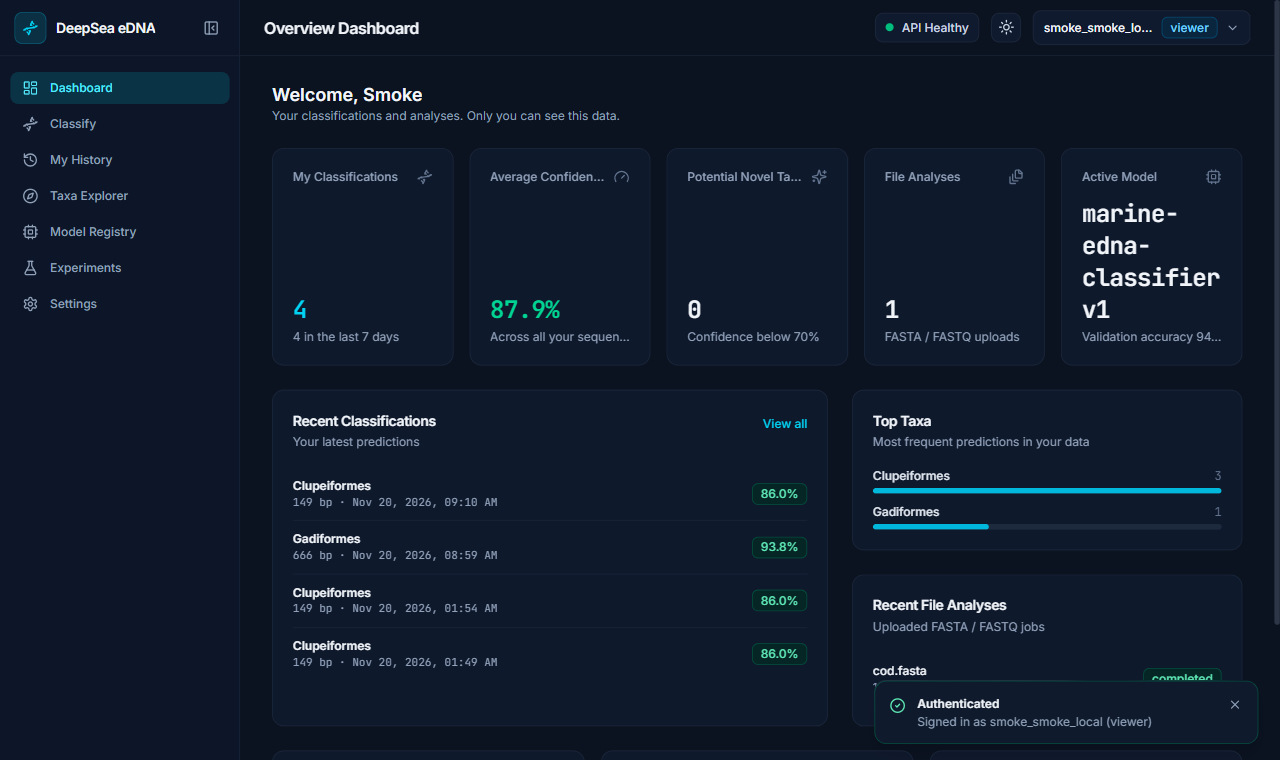
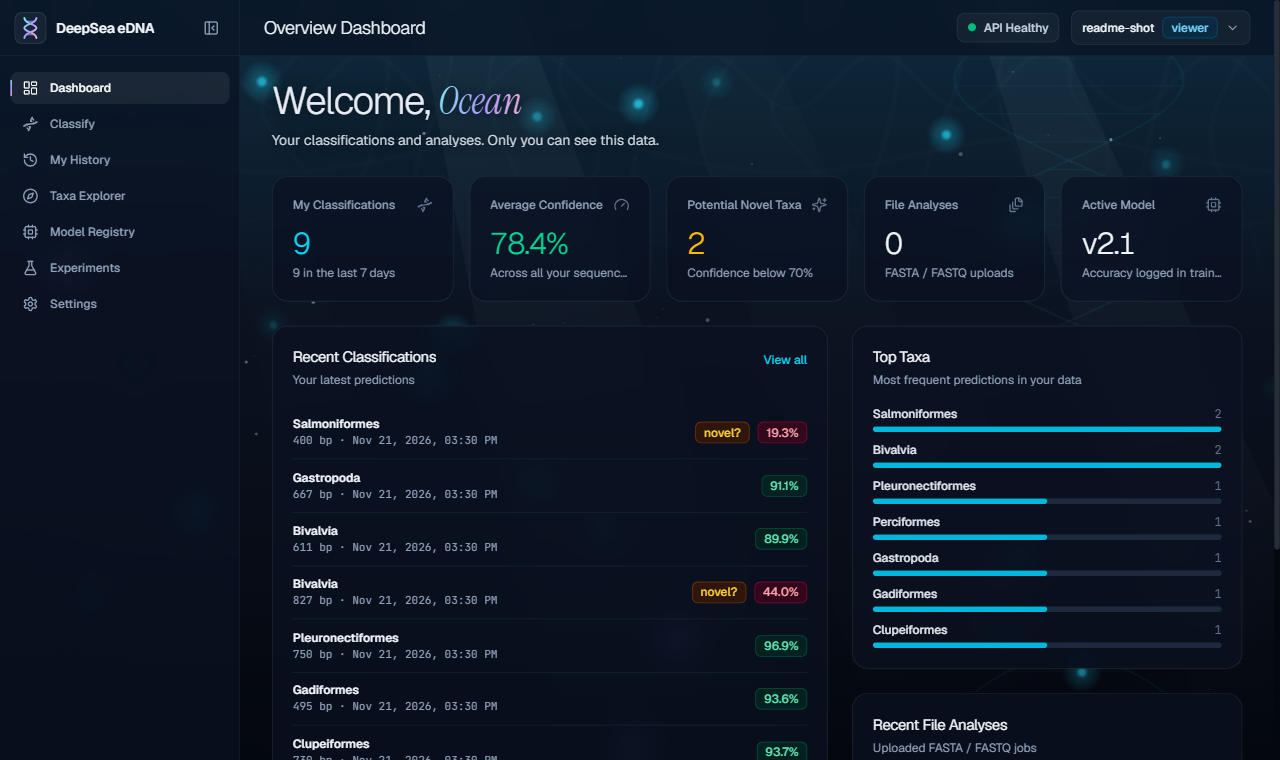
docs(readme): cinematic redesign, live deep-sea background, new screenshots
- New "Look and feel" section: 3D homepage, live ocean background, reactions to
  classifications / novel taxa / API health, glass UI, performance, reduced motion
  (gentle motion) and where the tunables live
- Fresh homepage, dashboard and Taxa Explorer screenshots of the redesigned UI
- Page table: homepage row, provider-only sign-in buttons, 90 % / 95 % resource
  warnings, 3D helix and constellation, dev-only backend-URL setting
- Fourth workflow (model quality monitoring), 24 Vitest tests and how to run them,
  new backend test suites, updated project structure and tech stack
- No-SSH AWS update command; troubleshooting for local CORS, reduced motion and
  resource warnings; roadmap updates

diff --git a/README.md b/README.md
@@ -3,7 +3,7 @@
 <img src="https://capsule-render.vercel.app/api?type=waving&color=0:06101F,45:0E7490,100:22D3EE&height=210&section=header&text=DeepSea%20eDNA%20AI&fontSize=52&fontColor=ffffff&fontAlignY=36&desc=Marine%20biodiversity%20from%20environmental%20DNA%20%E2%80%A2%20end-to-end%20MLOps&descAlignY=58&descSize=17&animation=fadeIn" width="100%" alt="DeepSea eDNA AI"/>
 
 <a href="https://app.16-179-237-170.sslip.io">
-  <img src="https://readme-typing-svg.demolab.com?font=Fira+Code&weight=600&size=20&duration=2800&pause=700&color=22D3EE&center=true&vCenter=true&width=760&lines=%F0%9F%A7%AC+DNA+sequence+in+%E2%86%92+marine+taxon+out;%F0%9F%A7%A0+CNN+%2B+self-attention+%E2%80%A2+95.0%25+held-out+accuracy;%F0%9F%93%A6+MLflow+registry+%E2%80%A2+models%3A%2F%2Fmarine-edna-classifier%40champion;%F0%9F%90%B3+Docker+%E2%80%A2+GitHub+Actions+%E2%80%A2+AWS+EC2+%2B+HTTPS" alt="Typing intro"/>
+  <img src="https://readme-typing-svg.demolab.com?font=Fira+Code&weight=600&size=20&duration=2800&pause=700&color=22D3EE&center=true&vCenter=true&width=760&lines=%F0%9F%A7%AC+DNA+sequence+in+%E2%86%92+marine+taxon+out;%F0%9F%A7%A0+CNN+%2B+self-attention+%E2%80%A2+95.0%25+held-out+accuracy;%F0%9F%93%A6+MLflow+registry+%E2%80%A2+models%3A%2F%2Fmarine-edna-classifier%40champion;%F0%9F%90%B3+Docker+%E2%80%A2+GitHub+Actions+%E2%80%A2+AWS+EC2+%2B+HTTPS;%F0%9F%8C%8A+Cinematic+3D+UI+over+a+live+deep-sea+background" alt="Typing intro"/>
 </a>
 
 <p>
@@ -16,7 +16,8 @@
   <img src="https://img.shields.io/badge/Accuracy-95.0%25-10B981?style=flat-square" alt="Accuracy"/>
   <img src="https://img.shields.io/badge/Training_data-48%2C000_sequences-0EA5E9?style=flat-square" alt="Data"/>
   <img src="https://img.shields.io/badge/Taxa-8-6366F1?style=flat-square" alt="Taxa"/>
-  <img src="https://img.shields.io/badge/Tests-56_passing-22C55E?style=flat-square&logo=pytest&logoColor=white" alt="Tests"/>
+  <img src="https://img.shields.io/badge/Tests-56_passing-22C55E?style=flat-square&logo=pytest&logoColor=white" alt="Backend tests"/>
+  <img src="https://img.shields.io/badge/Frontend_tests-24_passing-22C55E?style=flat-square&logo=vitest&logoColor=white" alt="Frontend tests"/>
   <a href="LICENSE"><img src="https://img.shields.io/badge/License-MIT-F59E0B?style=flat-square" alt="License"/></a>
 </p>
 
@@ -29,6 +30,8 @@
   <img src="https://img.shields.io/badge/Redis-7-DC382D?style=flat-square&logo=redis&logoColor=white" alt="Redis"/>
   <img src="https://img.shields.io/badge/React-19-61DAFB?style=flat-square&logo=react&logoColor=black" alt="React"/>
   <img src="https://img.shields.io/badge/TypeScript-5-3178C6?style=flat-square&logo=typescript&logoColor=white" alt="TypeScript"/>
+  <img src="https://img.shields.io/badge/Three.js-r170-000000?style=flat-square&logo=threedotjs&logoColor=white" alt="Three.js"/>
+  <img src="https://img.shields.io/badge/GSAP-3-88CE02?style=flat-square&logo=greensock&logoColor=black" alt="GSAP"/>
   <img src="https://img.shields.io/badge/Docker-Compose-2496ED?style=flat-square&logo=docker&logoColor=white" alt="Docker"/>
   <img src="https://img.shields.io/badge/AWS-EC2_%2B_CloudFormation-FF9900?style=flat-square&logo=amazonwebservices&logoColor=white" alt="AWS"/>
 </p>
@@ -42,6 +45,7 @@
 [🔄 CI/CD](#-cicd-pipelines) •
 [☁ AWS](#%EF%B8%8F-deployment-on-aws) •
 [🚀 Quick start](#-quick-start) •
+[🎨 Look & feel](#-look-and-feel) •
 [📚 API](#-api-reference)
 
 </div>
@@ -52,9 +56,15 @@
 
 <div align="center">
 
+<img src="docs/assets/screenshot-landing.png" width="92%" alt="Cinematic homepage: a 3D glass DNA helix over the live deep-sea background"/>
+
+<sub>👆 The public homepage: a 3D glass DNA helix, smooth scrolling and scroll-driven reveals over a live deep-sea background</sub>
+
+<br/><br/>
+
 <img src="docs/assets/demo-tour.gif" width="92%" alt="Tour of the DeepSea eDNA AI web app: sign in, dashboard, classify, taxa explorer, model registry, history"/>
 
-<sub>👆 Sign in → personal dashboard → classify a sequence → explore taxa → MLflow-backed model registry → your history</sub>
+<sub>👆 Sign in → personal dashboard → classify a sequence → explore taxa → MLflow-backed model registry → your history<br/>(the GIFs were recorded before the cinematic redesign: same flows, older look)</sub>
 
 </div>
 
@@ -98,6 +108,7 @@
 - [♻ Retraining and the approval gate](#%EF%B8%8F-retraining-and-the-approval-gate)
 - [☁ Deployment on AWS](#%EF%B8%8F-deployment-on-aws)
 - [🖥 The web app, page by page](#%EF%B8%8F-the-web-app-page-by-page)
+- [🎨 Look and feel](#-look-and-feel)
 - [🔐 Security](#-security)
 - [🚀 Quick start](#-quick-start)
 - [📚 API reference](#-api-reference)
@@ -162,7 +173,7 @@ Every animal in the ocean sheds tiny traces of DNA (skin cells, mucus, waste) in
 ### 🚢 Engineering
 - **FastAPI** + PostgreSQL + Alembic migrations
 - **Docker compose** stack (6 services)
-- **56 pytest tests**, CI on SQLite **and** PostgreSQL
+- **56 pytest + 24 Vitest tests**, CI on SQLite **and** PostgreSQL
 - **GitHub Actions**: lint → test → E2E → publish to GHCR
 - **AWS EC2** via CloudFormation, auto-HTTPS with Caddy
 
@@ -172,7 +183,8 @@ Every animal in the ocean sheds tiny traces of DNA (skin cells, mucus, waste) in
 <td valign="top">
 
 ### 🖥 Web app
-- React 19 + TypeScript + Tailwind, light/dark
+- React 19 + TypeScript + Tailwind, cinematic dark theme
+- **Live deep-sea background**, 3D helix (Three.js), GSAP + Lenis motion
 - Single, batch and **file (FASTA/FASTQ)** analysis
 - Interactive **Taxa Explorer** built from real data
 - Personal history, exports (JSON/CSV/TSV/BIOM/FASTA)
@@ -496,7 +508,7 @@ sequenceDiagram
 
 ## 🔄 CI/CD pipelines
 
-Three GitHub Actions workflows live in `.github/workflows/`:
+Four GitHub Actions workflows live in `.github/workflows/`:
 
 ```mermaid
 flowchart LR
@@ -517,6 +529,7 @@ flowchart LR
 | **CI/CD Pipeline** `ci-cd.yml` | push, PR, tags, manual | lint · 56 tests on 2 databases · frontend build · Trivy/Bandit · full-stack E2E with MLflow · publish images to **GHCR** |
 | **Model Retraining** `model-training.yml` | manual or `repository_dispatch: retrain` | train → register `@challenger` → approval gate → summary + artifacts |
 | **Pull Request Checks** `pr-checks.yml` | PR opened/updated | change summary, warns on PRs > 1,000 lines |
+| **Model Quality Monitoring** `model-quality-monitoring.yml` | manual | runs the [labelled-batch quality check](#labelled-batch-quality-monitoring) and publishes the evaluation and gate decision as artifacts |
 
 > ✅ This is **Continuous Delivery**: every change on `main` produces tested, versioned images. Deploying to AWS is one command.
 
@@ -609,8 +622,14 @@ aws cloudformation wait stack-create-complete --stack-name deepsea-edna
 aws cloudformation describe-stacks --stack-name deepsea-edna --query "Stacks[0].Outputs" --output table
 ```
 
-**Update to the latest `main`:** `cd /opt/deepsea && git pull && docker compose -f docker-compose.yml -f deploy/aws/docker-compose.aws.yml up -d --build` (run through SSM).
-Full guide: [`deploy/aws/README.md`](deploy/aws/README.md)
+**Update to the latest `main`** (no SSH: one SSM command; the instance pulls `main` and rebuilds, data stays):
+
+```bash
+aws ssm send-command --region ap-southeast-2 --instance-ids <InstanceId> --document-name AWS-RunShellScript \
+  --parameters 'commands=["export HOME=/root","cd /opt/deepsea","git config --global --add safe.directory /opt/deepsea","git pull --ff-only origin main","docker compose -f docker-compose.yml -f deploy/aws/docker-compose.aws.yml up -d --build"]'
+```
+
+`HOME` must be set because SSM shells have none. The rebuild takes about 10 minutes on a `t3.small`. Full guide: [`deploy/aws/README.md`](deploy/aws/README.md)
 
 </details>
 
@@ -625,16 +644,46 @@ Full guide: [`deploy/aws/README.md`](deploy/aws/README.md)
 
 | Page | 👀 What you can do | 👤 Who |
 |---|---|---|
-| 🔑 **Login** | Email/password or **Google / GitHub**, create account. Stats read from the measured catalog | everyone |
-| 🏠 **Dashboard** | Your classifications, 7-day activity, average confidence, novel count, top taxa, recent jobs. Admins also see CPU / memory / disk and component health | everyone (+admin) |
-| 🧬 **Classify** | **Single** sequence (probability chart for all 8 taxa, lineage, novelty), **Batch** FASTA, **File upload** (FASTA/FASTQ background job with diversity indices and exports) | everyone |
+| 🌐 **Homepage** | Cinematic introduction for visitors: 3D helix, how it works, the taxa, the platform, FAQ. Signed-in users go straight to their dashboard | signed out |
+| 🔑 **Login** | Email/password or **Google / GitHub** (buttons appear only for configured providers), create account. Stats read from the measured catalog | everyone |
+| 🏠 **Dashboard** | Your classifications, 7-day activity, average confidence, novel count, top taxa, recent jobs. Admins also see CPU / memory / disk (warning at 90 %, critical at 95 %, with the reason shown) and component health | everyone (+admin) |
+| 🧬 **Classify** | **Single** sequence (probability chart for all 8 taxa, lineage, novelty), **Batch** FASTA, **File upload** (FASTA/FASTQ background job with diversity indices and exports). A 3D helix draws the pasted sequence | everyone |
 | 🕘 **My History** | Every sequence you classified and every file analysis, filter by taxon, paginated, private | everyone |
-| 🐟 **Taxa Explorer** | Taxonomy tree, search & sort, per-taxon precision/recall/F1, "mistaken for" chips, top species (NCBI links), marker genes, **live test with a real GenBank sequence** | everyone |
+| 🐟 **Taxa Explorer** | 3D taxonomy constellation, taxonomy tree, search & sort, per-taxon precision/recall/F1, "mistaken for" chips, top species (NCBI links), marker genes, **live test with a real GenBank sequence** | everyone |
 | 📦 **Model Registry** | Live **serving model** card (`models:/…@champion`, version, run), reload from MLflow, compare / activate / rollback / archive versions | view: all · manage: scientist+ |
 | 🧪 **Experiments** | Create and run A/B experiments, see confidence intervals, p-value and the winner | view: all · manage: scientist+ |
 | 📈 **Monitoring** | Live CPU/memory, requests & errors per minute, cache telemetry, clear cache | admin |
 | 🛡 **Admin** | Users, roles, enable/disable, revoked tokens, role → permission matrix | admin |
-| ⚙ **Settings** | Profile, theme, backend URL & connection test | everyone |
+| ⚙ **Settings** | Profile and sign-in methods (development builds also offer a backend-URL override and connection test) | everyone |
+
+---
+
+## 🎨 Look and feel
+
+The public homepage and the signed-in app share one cinematic, dark deep-sea visual language: the view from a submersible window at night.
+
+| | |
+|---|---|
+| 🏠 **Homepage** | A 3D glass DNA helix (React Three Fiber), **Lenis** smooth scrolling and **GSAP** scroll-driven reveals |
+| 🌊 **Live background** | One full-screen 2D canvas behind every page, kept alive across navigation: depth gradient and vignette, swaying god rays, caustic shimmer, marine snow at three parallax depths, glowing **plankton drawn to the cursor** (a quick flick scatters them) and a faint rotating DNA helix. Scrolling darkens the water as if you were sinking |
+| 🔔 **Reacts to the app** | A cyan ripple when a classification succeeds, a violet ripple and brighter plankton for a **novel taxon**, plankton fading to grey while the API is unhealthy |
+| 🪟 **Glass UI** | Frosted sidebar, header, cards and empty states with a cyan hover glow. Text over the water keeps **WCAG AA** contrast |
+| 🧬 **3D views** | The sequence helix on Classify and the taxonomy constellation in the Taxa Explorer |
+
+<details>
+<summary><b>⚙ Performance, accessibility and tuning</b></summary>
+
+<br/>
+
+- **One animation loop**, frame-rate independent, no React re-renders per frame (about 1 ms per frame). It never takes clicks and sits below modals, toasts and menus.
+- Pixel density capped at 2×, fewer particles on small screens, and quality steps down automatically when frames run slow.
+- Pauses when the tab is hidden or the window has been ignored for 20 s. Moving the mouse over it wakes it.
+- **Reduced motion** (the OS "animation effects" setting): motion keeps going gently instead of stopping, the 3D scenes at ⅓ speed and the ocean at ½. The preloader, smooth scroll and count-ups are skipped.
+- **Every tunable** lives in one labelled object, `OCEAN` in [`src/components/backdrop/oceanConfig.ts`](src/components/backdrop/oceanConfig.ts). ★ marks the levers for a calmer or more dramatic look (ray, caustic and helix opacity, plankton glow and cursor pull, parallax, ripple strength, particle counts).
+- Any part of the app can trigger an effect with `emitOceanEvent` from [`src/lib/oceanEvents.ts`](src/lib/oceanEvents.ts).
+- A pale "shallow water" version for a light theme is built in, ready for when the light theme returns. The app is dark-only for now.
+
+</details>
 
 ---
 
@@ -654,7 +703,7 @@ Full guide: [`deploy/aws/README.md`](deploy/aws/README.md)
 | 🚦 Brute force | **10 login/register attempts per minute per IP** → HTTP 429 (real IP via trusted proxy header) |
 | 🌐 OAuth | Authorization-code flow, signed `state` bound to an httpOnly cookie, tokens returned in the URL **fragment** |
 | 🙈 Privacy | Users only see their own history, jobs and exports. Path traversal blocked |
-| 🧱 Headers / CORS | `X-Frame-Options: DENY`, `nosniff`, Referrer & Permissions policies. CORS limited to the app origin |
+| 🧱 Headers / CORS | `X-Frame-Options: DENY`, `nosniff`, Referrer & Permissions policies. CORS limited to the app origin (development also accepts this machine's `127.0.0.1` / LAN addresses) |
 | 🐳 Containers | API runs as a **non-root** user. DB and Redis are never published |
 
 </details>
@@ -707,7 +756,7 @@ npm install && npm run dev                              # http://localhost:3000
 
 - **Google:** Cloud Console → APIs & Services → Credentials → OAuth client (Web). Redirect URI `http://localhost:8000/auth/oauth/google/callback` (your `BACKEND_PUBLIC_URL` in production). Set `GOOGLE_CLIENT_ID` / `GOOGLE_CLIENT_SECRET`.
 - **GitHub:** Settings → Developer settings → OAuth Apps. Callback `http://localhost:8000/auth/oauth/github/callback`. Set `GITHUB_CLIENT_ID` / `GITHUB_CLIENT_SECRET`.
-- Restart the backend. Buttons appear only for configured providers.
+- Restart the backend. Buttons appear only for configured providers, and the backend logs each provider's callback URL at startup: the exact value to register.
 
 </details>
 
@@ -780,12 +829,16 @@ python -m pytest tests -v                                                   # SQ
 TEST_DATABASE_URL=postgresql://user:pass@localhost:5432/test python -m pytest tests -v
 python ../scripts/smoke_test.py --api http://localhost:8000 --mlflow http://localhost:5000 \
   --email you@example.com --expect-source mlflow                            # end-to-end
+
+npm test                                                                    # frontend (Vitest), from the repo root
 ```
 
 | Suite | Covers |
 |---|---|
 | `test_integration.py` | accounts, tokens, RBAC, predictions & history privacy, file analysis + exports, OAuth (incl. forged state), rate limiting, security headers |
 | `test_mlflow.py` | bootstrap once, champion matches local model, pyfunc interface, **approval gate**, model-source modes, **hot reload** |
+| `test_cors.py` · `test_oauth_redirects.py` · `test_health_thresholds.py` | dev CORS origins, the OAuth callback URLs logged at startup, 90 % / 95 % resource thresholds |
+| Vitest (`src/**/*.test.ts`) | ocean background quality, pausing and reduced-motion speed, the ocean event bus, 3D gentle motion, scroll reveals and count-ups, auth store, display helpers |
 | `smoke_test.py` | a live stack: health → MLflow champion → login → served from MLflow → prediction → history → frontend |
 
 ---
@@ -816,22 +869,28 @@ DeepSea-eDNA/
 │   ├── requirements.txt          # API runtime dependencies
 │   └── requirements-dev.txt      # + test dependencies
 ├── mlops/                        # A/B testing, model versioning, monitoring,
-│                                 #   cache manager, export formats
+│                                 #   cache manager, export formats,
+│                                 #   monitor_retrain.py (labelled-batch quality gate)
 ├── ml_models/marine_model/       # Bundled model: weights, config, taxonomy map
 ├── data/training/marine_diverse/ # Training dataset (8 classes, 48,000 sequences)
+├── data/incoming/                # New labelled batches for quality monitoring
 ├── scripts/
 │   ├── smoke_test.py             # End-to-end check of a running stack (used in CI)
 │   └── build_taxa_catalog.py     # Regenerates src/data/taxaCatalog.json
 ├── src/                          # React + TypeScript frontend
-│   ├── components/               # Layout, auth, UI primitives
+│   ├── components/
+│   │   ├── backdrop/             # Live deep-sea canvas background (oceanConfig.ts = tunables)
+│   │   ├── three/                # 3D scenes: glass helix, sequence helix, taxa constellation
+│   │   ├── landing/, motion/     # Homepage sections, page transitions and reveals
+│   │   └── layout/, ui/, auth/…  # App shell, glass UI primitives, route guards
 │   ├── data/                     # Taxa catalog (generated) + curated descriptions
-│   ├── pages/                    # Routed pages
-│   └── lib/, store/, types/      # API client, state, shared types
+│   ├── pages/                    # Homepage + routed app pages
+│   └── lib/, store/, types/      # API client, ocean event bus, GSAP/Lenis helpers, state, types
 ├── deploy/
 │   ├── nginx.conf                # Frontend container web server
 │   └── aws/                      # EC2 CloudFormation stack, Caddy HTTPS, compose override
 ├── docs/assets/                  # README GIFs and screenshots
-├── .github/workflows/            # CI/CD, PR checks, model retraining
+├── .github/workflows/            # CI/CD, PR checks, model retraining, quality monitoring
 ├── docker-compose.yml            # Full stack: frontend, API, PostgreSQL, Redis, MLflow
 ├── Dockerfile                    # API image (CPU PyTorch, non-root)
 ├── Dockerfile.frontend           # Multi-stage: Node build → nginx
@@ -852,7 +911,7 @@ DeepSea-eDNA/
 | 🧠 ML | ![PyTorch](https://img.shields.io/badge/-PyTorch-EE4C2C?logo=pytorch&logoColor=white) ![NumPy](https://img.shields.io/badge/-NumPy-013243?logo=numpy&logoColor=white) ![Biopython](https://img.shields.io/badge/-Biopython-2E7D32) ![Optuna](https://img.shields.io/badge/-Optuna-2F4F8F) |
 | 📦 MLOps | ![MLflow](https://img.shields.io/badge/-MLflow-0194E2?logo=mlflow&logoColor=white) ![Prometheus](https://img.shields.io/badge/-Prometheus-E6522C?logo=prometheus&logoColor=white) ![Redis](https://img.shields.io/badge/-Redis-DC382D?logo=redis&logoColor=white) |
 | ⚡ Backend | ![FastAPI](https://img.shields.io/badge/-FastAPI-009688?logo=fastapi&logoColor=white) ![SQLAlchemy](https://img.shields.io/badge/-SQLAlchemy-D71F00?logo=sqlalchemy&logoColor=white) ![PostgreSQL](https://img.shields.io/badge/-PostgreSQL-4169E1?logo=postgresql&logoColor=white) ![JWT](https://img.shields.io/badge/-JWT-000000?logo=jsonwebtokens&logoColor=white) |
-| 🎨 Frontend | ![React](https://img.shields.io/badge/-React-61DAFB?logo=react&logoColor=black) ![TypeScript](https://img.shields.io/badge/-TypeScript-3178C6?logo=typescript&logoColor=white) ![Vite](https://img.shields.io/badge/-Vite-646CFF?logo=vite&logoColor=white) ![Tailwind](https://img.shields.io/badge/-Tailwind-06B6D4?logo=tailwindcss&logoColor=white) ![TanStack Query](https://img.shields.io/badge/-TanStack_Query-FF4154?logo=reactquery&logoColor=white) |
+| 🎨 Frontend | ![React](https://img.shields.io/badge/-React-61DAFB?logo=react&logoColor=black) ![TypeScript](https://img.shields.io/badge/-TypeScript-3178C6?logo=typescript&logoColor=white) ![Vite](https://img.shields.io/badge/-Vite-646CFF?logo=vite&logoColor=white) ![Tailwind](https://img.shields.io/badge/-Tailwind-06B6D4?logo=tailwindcss&logoColor=white) ![TanStack Query](https://img.shields.io/badge/-TanStack_Query-FF4154?logo=reactquery&logoColor=white) ![Three.js](https://img.shields.io/badge/-Three.js-000000?logo=threedotjs&logoColor=white) ![React Three Fiber](https://img.shields.io/badge/-React_Three_Fiber-000000) ![GSAP](https://img.shields.io/badge/-GSAP-88CE02?logo=greensock&logoColor=black) ![Lenis](https://img.shields.io/badge/-Lenis-111111) ![Vitest](https://img.shields.io/badge/-Vitest-6E9F18?logo=vitest&logoColor=white) |
 | 🚢 DevOps | ![Docker](https://img.shields.io/badge/-Docker-2496ED?logo=docker&logoColor=white) ![GitHub Actions](https://img.shields.io/badge/-GitHub_Actions-2088FF?logo=githubactions&logoColor=white) ![nginx](https://img.shields.io/badge/-nginx-009639?logo=nginx&logoColor=white) ![Caddy](https://img.shields.io/badge/-Caddy-1F88C0?logo=caddy&logoColor=white) |
 | ☁ Cloud | ![AWS EC2](https://img.shields.io/badge/-EC2-FF9900?logo=amazonec2&logoColor=white) ![CloudFormation](https://img.shields.io/badge/-CloudFormation-FF4F8B?logo=amazonwebservices&logoColor=white) ![SSM](https://img.shields.io/badge/-SSM-527FFF?logo=amazonwebservices&logoColor=white) ![Let's Encrypt](https://img.shields.io/badge/-Let's_Encrypt-003A70?logo=letsencrypt&logoColor=white) |
 
@@ -868,11 +927,15 @@ DeepSea-eDNA/
 - [x] 🔄 GitHub Actions CI/CD with E2E and GHCR publishing
 - [x] ☁ AWS EC2 deployment with automatic HTTPS
 - [x] 🐟 Interactive, data-driven Taxa Explorer
+- [x] 🎬 Cinematic UI: 3D homepage, live deep-sea background, glass design
+- [x] 🩺 Labelled-batch quality monitoring with a weighted-F1 gate
 - [ ] 📉 Automated drift reports (Evidently AI) that trigger retraining
 - [ ] 🚀 Continuous deployment to AWS via GitHub OIDC
 - [ ] 🗄 MLflow on PostgreSQL + S3 artifacts, RDS for the app database
 - [ ] ⚖ Real traffic splitting between two models for A/B tests
 - [ ] 🧬 More taxa and hierarchical (species-level) prediction
+- [ ] 🌗 Light ("shallow water") theme: the background palette is ready
+- [ ] 🧪 Run the Vitest suite in CI next to the frontend build
 
 ---
 
@@ -888,6 +951,24 @@ DeepSea-eDNA/
 <summary><b>🔑 Google says <code>redirect_uri_mismatch</code></b></summary>
 
 Add `<BACKEND_PUBLIC_URL>/auth/oauth/google/callback` to the OAuth client's **Authorized redirect URIs** in Google Cloud Console. In "Testing" mode, add your account as a test user.
+</details>
+
+<details>
+<summary><b>🔌 "Unable to reach the DeepSea eDNA FastAPI backend" in local development</b></summary>
+
+Check the API is running on port 8000 (`curl http://localhost:8000/health`) and that `VITE_API_BASE_URL` points at it. In development the API accepts the frontend from `localhost`, `127.0.0.1` and this machine's LAN addresses on any port. In production only `FRONTEND_URL` / `CORS_ORIGINS` are allowed.
+</details>
+
+<details>
+<summary><b>🌊 Animations look slow, or the 3D scenes barely move</b></summary>
+
+Your OS is asking for reduced motion, so the app keeps motion gentle on purpose. On Windows turn on **Settings → Accessibility → Visual effects → Animation effects** (macOS: System Settings → Accessibility → Display → Reduce motion off) for full speed.
+</details>
+
+<details>
+<summary><b>⚠ The dashboard's System Status shows a warning</b></summary>
+
+A host resource (CPU, memory or disk) is at **90 %** or more (**critical at 95 %**). The card names which one. Freeing disk space or memory clears it on the next refresh.
 </details>
 
 <details>
@@ -907,7 +988,7 @@ Hard refresh (<kbd>Ctrl</kbd>+<kbd>Shift</kbd>+<kbd>R</kbd>). `index.html` is se
 ## 🤝 Contributing
 
 1. 🍴 Fork and create a branch: `git checkout -b feature/amazing-feature`
-2. 🧪 Run the tests: `cd backend && python -m pytest tests` and `npm run build`
+2. 🧪 Run the tests: `cd backend && python -m pytest tests`, then `npm test` and `npm run build`
 3. 📝 Use clear commit messages (`feat:`, `fix:`, `docs:` …)
 4. 🔃 Open a pull request. CI runs automatically.
 
